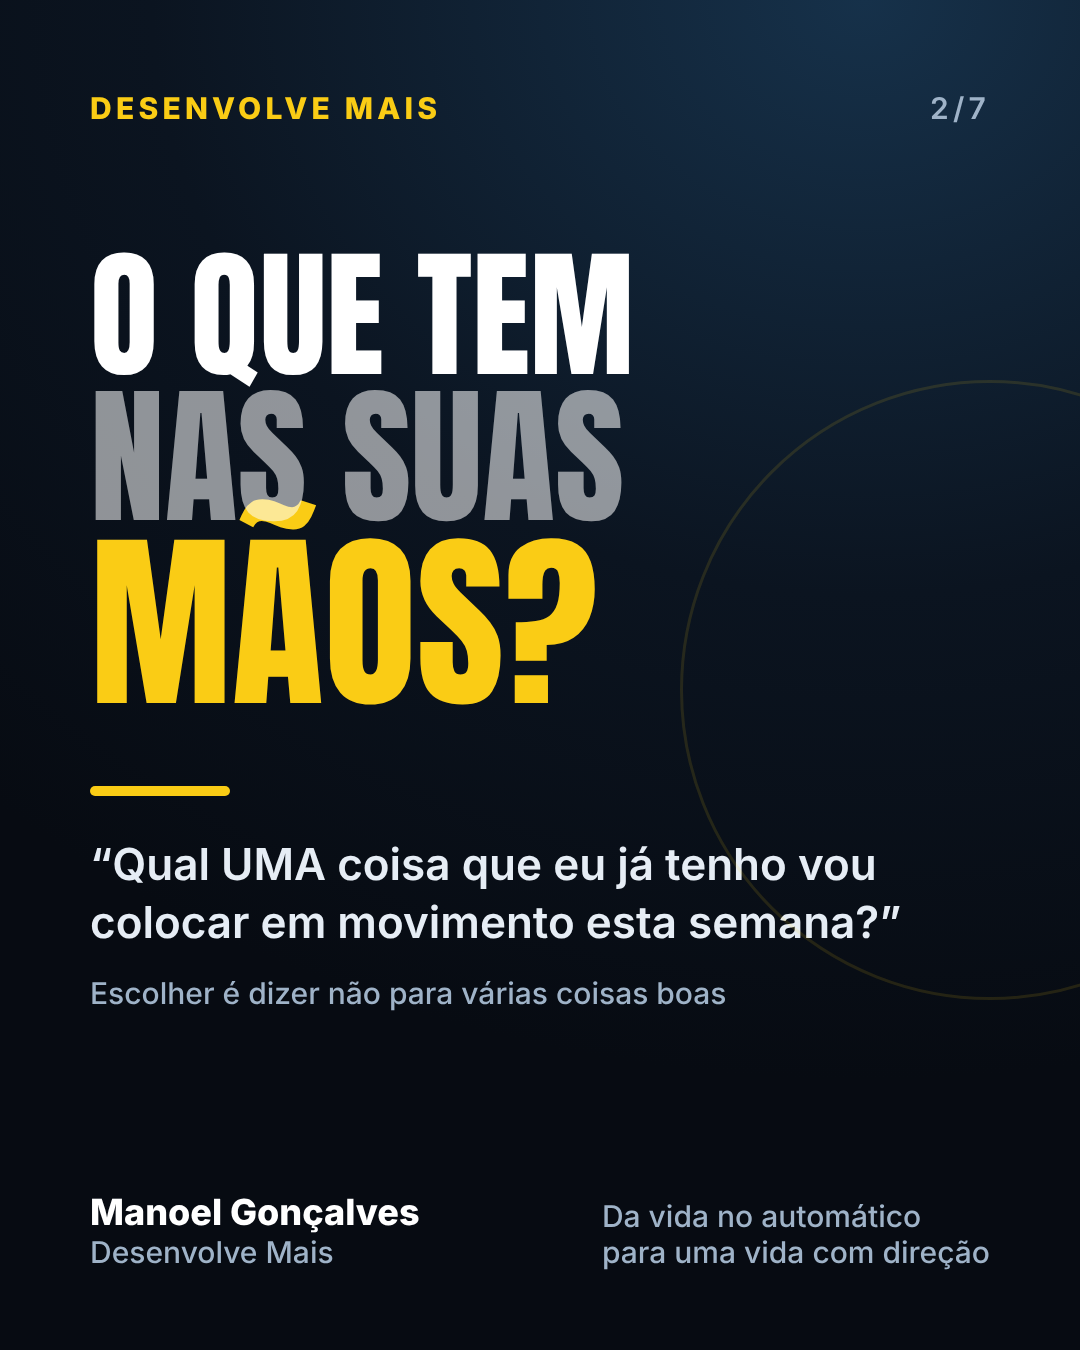
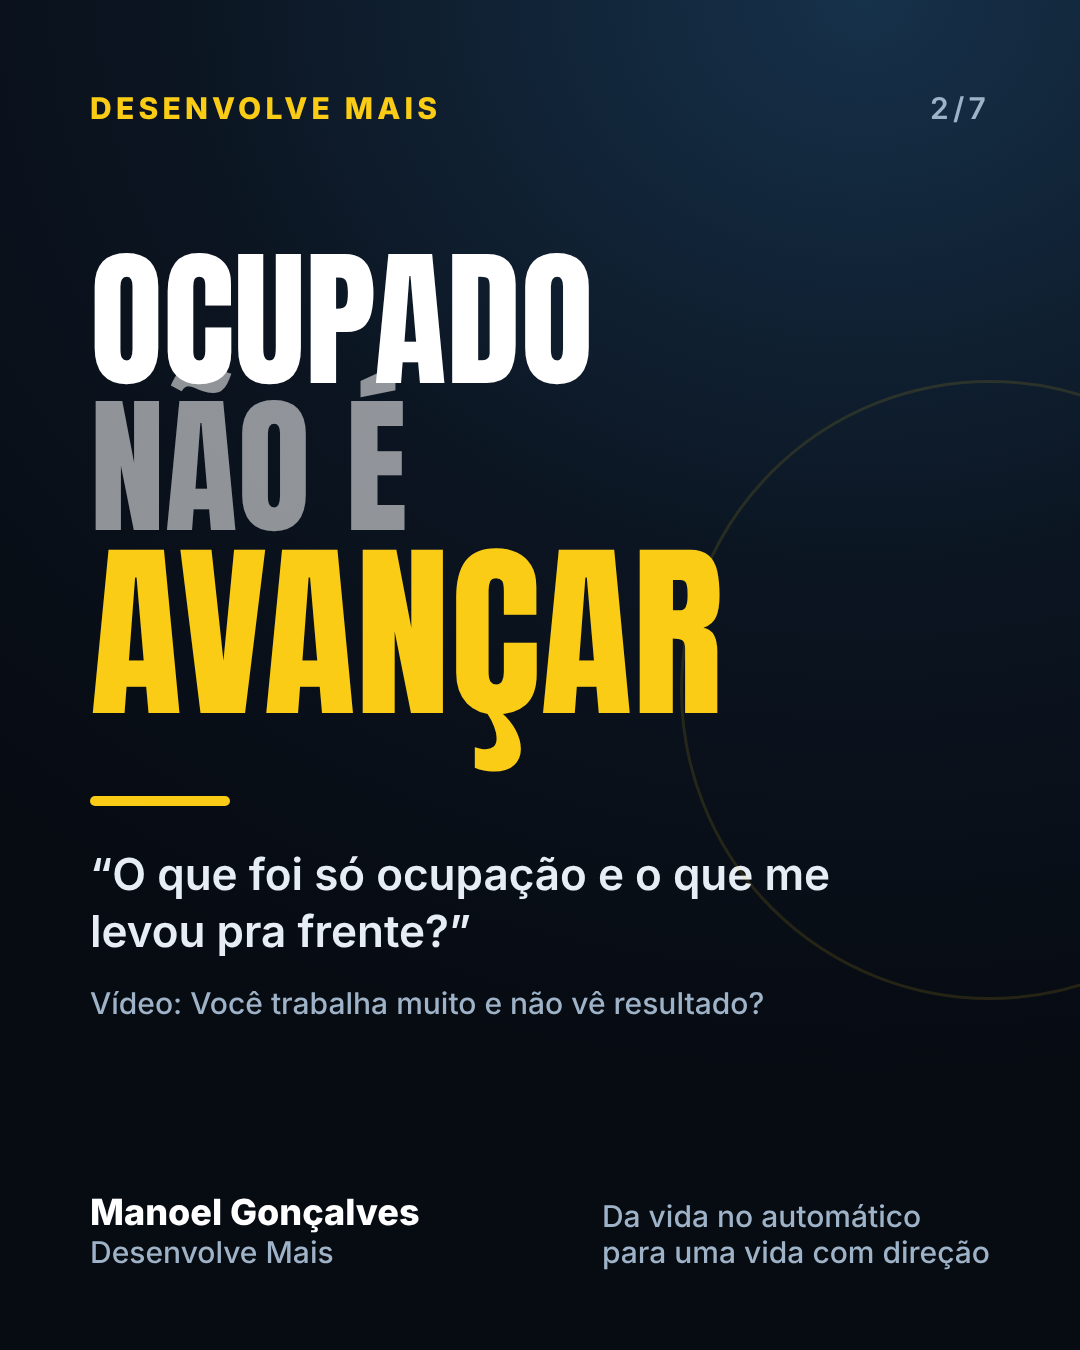
LinkedIn: lote 2 com 3 posts dos vídeos do canal
Claude-Session: https://claude.ai/code/session_01Xv73S5SQic5cmuxu4r8bSa

Changed region(s): [[0.0611, 0.1867, 0.6722, 0.5911], [0.0917, 0.56, 0.825, 0.7467]]

diff --git a/linkedin/2026-11-28_lote2.md b/linkedin/2026-11-28_lote2.md
@@ -1,17 +1,17 @@
 # LinkedIn — Lote 2 (28/11 a 04/12/2026)
 
 **Status:** RASCUNHO — aguardando aprovação do Manoel
-**Fonte:** Diário de Bordo (Google Drive), entradas de 11, 16, 17, 18, 20, 21 e 24/11/2026 — só princípios profissionais, conforme `REGRAS_FONTE_DIARIO.md`. Nenhum nome, cliente, valor ou assunto pessoal.
+**Fonte:** 3 posts de vídeos do canal (pauta/capítulos no Drive e análise das transcrições) + 4 do Diário de Bordo (Google Drive), entradas de 11, 16, 17, 18, 20, 21 e 24/11/2026 — só princípios profissionais, conforme `REGRAS_FONTE_DIARIO.md`. Nenhum nome, cliente, valor ou assunto pessoal.
 **Agenda:** 1 post por dia, 8h (Brasília), LinkedIn pessoal.
 
-| Dia | Tema | Origem no diário |
+| Dia | Tema | Origem |
 |---|---|---|
 | sáb 28/11 | Obesidade intelectual | 16/11 |
-| dom 29/11 | O que você tem nas mãos? | 16/11 |
+| dom 29/11 | Ocupado não é avançando | vídeo "Você trabalha muito e não vê resultado?" |
 | seg 30/11 | Entender antes de sair fazendo | 20/11 |
 | ter 01/12 | Liderança: o mérito e a responsabilidade | 11/11 |
-| qua 02/12 | Ferramenta que ajuda x ferramenta que vira trabalho | 16 e 18/11 |
-| qui 03/12 | Comparação: "e quanto a mim?" | 18/11 |
+| qua 02/12 | Gatilho, rotina, recompensa | vídeo "O Poder do Hábito" |
+| qui 03/12 | O cara que resolve tudo: técnico ou líder? | vídeo "Você trabalha muito e não vê resultado?" |
 | sex 04/12 | Foco no que você faz bem | 20 e 24/11 |
 
 ---
@@ -56,45 +56,47 @@ O que você já sabe e está guardando há tempo demais? 💬
 
 ---
 
-## 2 — dom 29/11 — O que você tem nas mãos?
+## 2 — dom 29/11 — Ocupado não é avançando (vídeo: "Você trabalha muito e não vê resultado?")
 
 **Arte:** `artes/lote2-2.png`
 
-"O que você tem em suas mãos?" ✋
+Você trabalha pra caramba e os anos passam... e você continua no mesmo lugar? 😓
 
-Essa pergunta ficou comigo a semana inteira.
+Entrega mais do que pedem.
 
-Porque a resposta, pra muita gente, é: coisa demais.
+Resolve o que ninguém resolve.
 
-Ideias, projetos, possibilidades, contatos, habilidades. Tudo ao mesmo tempo.
+Sai depois de todo mundo.
 
-E quando você tem muitas opções, é fácil ficar olhando pra todas e não escolher nenhuma.
+E mesmo assim não cresce.
 
-Parece riqueza. Na prática, vira paralisia. 🧊
+Talvez o problema não seja esforço.
 
-O problema quase nunca é falta de recurso.
+Tem três coisas que a gente costuma misturar 👇
 
-É falta de escolha.
+🔸 Estar ocupado: agenda cheia, cansaço no fim do dia.
 
-👉 Escolher é dizer sim pra uma coisa e não pra várias outras boas.
+🔸 Entregar resultado: o que você fez mudou alguma coisa pra empresa ou pro cliente?
 
-👉 E começar com o que já está na sua mão, não com o que você ainda acha que precisa ter.
+🔸 Crescer: você está se tornando alguém capaz de assumir mais?
 
-Faz um teste rápido:
+Dá pra estar muito ocupado sem entregar resultado.
 
-1⃣ Lista o que você já tem hoje (conhecimento, experiência, relações).
+E dá pra entregar resultado por anos sem crescer.
 
-2⃣ Escolhe UMA coisa disso pra colocar em movimento essa semana.
+👉 Ocupado não é avançando.
 
-3⃣ Ignora o resto por 7 dias.
+A pergunta que eu deixo:
 
-Não é sobre ter mais. É sobre usar o que tem.
+"Do que eu fiz essa semana, o que foi só ocupação e o que realmente me levou pra frente?"
 
-O que está nas suas mãos agora e você ainda não usou? 💬
+Fiz um vídeo inteiro sobre isso no canal, com um exercício prático no final. ▶ Vídeo completo no YouTube: @CanalDesenvolveMais
 
-📲 Se você quer ajuda pra escolher por onde começar, me chama no WhatsApp: https://wa.me/5512991337474
+Você se reconhece mais em qual das três hoje? 💬
 
-#DesenvolvimentoPessoal #Foco #TomadaDeDecisão
+📲 Quer conversar sobre a sua carreira? Me chama no WhatsApp e escreve DECISÃO: https://wa.me/5512991337474?text=DECIS%C3%83O
+
+#Carreira #DesenvolvimentoProfissional #CrescimentoProfissional
 
 ---
 
@@ -186,87 +188,93 @@ Que parte do seu resultado atual é responsabilidade sua? 💬
 
 ---
 
-## 5 — qua 02/12 — Ferramenta que ajuda x ferramenta que vira trabalho
+## 5 — qua 02/12 — Gatilho, rotina, recompensa (vídeo: "O Poder do Hábito")
 
 **Arte:** `artes/lote2-5.png`
 
-Você está usando a ferramenta ou a ferramenta está usando você? ⚙
+Você não decide a maior parte do que faz no dia. 🔁
 
-Sistema novo, aplicativo novo, automação nova, planilha nova, inteligência artificial nova.
+Você repete.
 
-Tudo promete organizar sua vida.
+Pega o celular sem perceber.
 
-E muita coisa ajuda mesmo. Eu uso bastante.
+Abre o e-mail antes de pensar no que é prioridade.
 
-Mas tem uma armadilha que eu já caí: confundir configurar ferramenta com avançar no que importa.
+Adia aquela tarefa difícil sempre do mesmo jeito.
 
-Passa a tarde ajustando o sistema...
+No livro O Poder do Hábito, o Charles Duhigg mostra que todo hábito segue um ciclo 👇
 
-...e a tarefa principal continua parada. 😅
+1⃣ Gatilho: algo que dispara o comportamento (um horário, um lugar, uma emoção).
 
-A regra que eu tenho usado:
+2⃣ Rotina: o que você faz, quase no automático.
 
-1⃣ Primeiro, o que ajuda no atendimento real.
+3⃣ Recompensa: o alívio ou o prazer que faz o cérebro querer repetir.
 
-2⃣ Depois, se precisar, a próxima solução.
+O detalhe que muda tudo:
 
-3⃣ Um passo de cada vez.
+👉 Você não elimina um hábito na força de vontade.
 
-✅ Ferramenta boa tira trabalho repetitivo da sua frente.
+👉 Você mantém o gatilho e a recompensa, e troca a rotina.
 
-❌ Ferramenta ruim vira mais uma coisa pra administrar.
+E quando falhar? Porque vai falhar.
 
-E tem um detalhe: organização bonita em cima de informação errada continua errada.
+✅ Recomeçar no dia seguinte faz parte do processo.
 
-👉 Antes de perguntar "qual ferramenta usar?", pergunta "qual problema eu preciso resolver?"
+❌ Desistir porque "não deu certo uma vez", não.
 
-Qual ferramenta te deu mais trabalho do que resolveu? 💬
+Falei disso em detalhe num vídeo do canal. ▶ Vídeo completo no YouTube: @CanalDesenvolveMais
 
-📲 Se você quer organizar a rotina de trabalho sem se perder em ferramenta, me chama: https://wa.me/5512991337474
+Qual hábito do seu trabalho você repete sem perceber? 💬
 
-#Produtividade #Gestão #Tecnologia
+📲 Se você quer mudar um padrão que se repete na sua rotina, me chama: https://wa.me/5512991337474
+
+#Hábitos #Produtividade #DesenvolvimentoPessoal
 
 ---
 
-## 6 — qui 03/12 — Comparação: "e quanto a mim?"
+## 6 — qui 03/12 — O cara que resolve tudo (vídeo: "Você trabalha muito e não vê resultado?")
 
 **Arte:** `artes/lote2-6.png`
 
-Tem uma cena na Bíblia que me pegou essa semana. 📖
+Toda empresa tem aquela pessoa que resolve tudo. 🧯
 
-Pedro olha pra outro discípulo e pergunta pra Jesus: "E quanto a ele?"
+Deu problema? Chama ela.
 
-E a resposta, resumindo, foi: "Isso não é com você. Você, me segue."
+Travou o sistema? Ela sabe.
 
-Quantas vezes a gente faz a mesma pergunta?
+Cliente bravo? Ela acalma.
 
-🔸 "E aquele colega que cresceu mais rápido?"
+E ela se orgulha disso. Com razão.
 
-🔸 "E aquela pessoa da minha idade que já chegou lá?"
+Mas tem um risco que pouca gente enxerga:
 
-🔸 "E aquele concorrente que parece que acertou tudo?"
+quem resolve tudo pode virar indispensável no lugar onde está... e por isso mesmo não sair dali. 🔒
 
-Comparação rouba energia de um lugar e coloca em outro que você não controla.
+Aí vem a pergunta que eu trato no vídeo:
 
-Você fica tão ocupado acompanhando a história do outro que esquece de escrever a sua.
+👉 Você quer crescer como técnico ou como líder?
 
-Eu também caio nisso.
+Não existe resposta certa. Mas são caminhos diferentes 👇
 
-Mas a pergunta que muda o jogo é outra:
+🔸 Técnico cresce aprofundando o que faz.
 
-👉 "E quanto a mim? O que me cabe fazer agora?"
+🔸 Líder cresce fazendo outras pessoas fazerem bem.
 
-Cada um tem a sua estrada, o seu tempo, os seus desafios.
+E tem outra confusão comum:
 
-✅ Olhar o outro pra aprender, sim.
+✅ Proatividade é assumir o que gera resultado.
 
-❌ Olhar o outro pra se medir, não.
+❌ Sobrecarga é aceitar tudo pra não decepcionar ninguém.
 
-Com quem você tem se comparado ultimamente? 💬
+Se você é o "cara que resolve tudo", talvez o próximo passo seja aprender a não resolver sozinho.
 
-📲 Se você quer clareza sobre o seu próprio caminho, sem régua dos outros, me chama: https://wa.me/5512991337474
+▶ Vídeo completo no YouTube: @CanalDesenvolveMais
 
-#DesenvolvimentoPessoal #Carreira #Autoconhecimento
+Você quer crescer pra onde: técnico ou líder? 💬
+
+📲 Me chama no WhatsApp e escreve DECISÃO: https://wa.me/5512991337474?text=DECIS%C3%83O
+
+#Liderança #Carreira #DesenvolvimentoProfissional
 
 ---
 
@@ -309,3 +317,11 @@ Qual é a coisa que você faz bem e está deixando em segundo plano? 💬
 📲 Ajudo pessoas a identificar e organizar suas forças no trabalho. Se quiser conversar: https://wa.me/5512991337474
 
 #Carreira #Foco #DesenvolvimentoProfissional
+
+---
+
+## Reserva (saíram do lote 2, usar num próximo lote)
+- O que você tem nas mãos? (diário 16/11)
+- Ferramenta que ajuda x ferramenta que vira trabalho (diário 16 e 18/11)
+- Comparação: "e quanto a mim?" (diário 18/11)
+- Vídeos sem transcrição encontrada no Drive: "Eu sei, mas não faço" e "O que você não vê" — pedir transcrição/pauta ao Manoel antes de usar.
